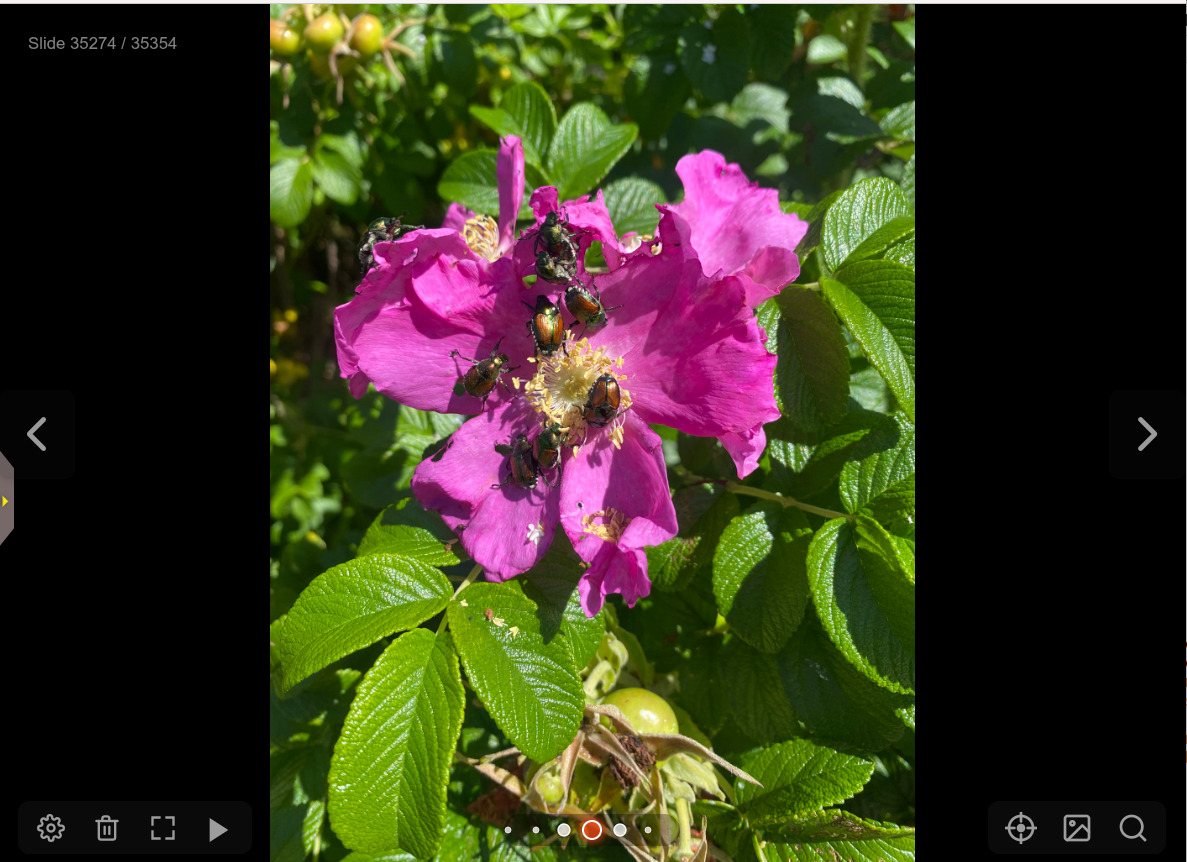
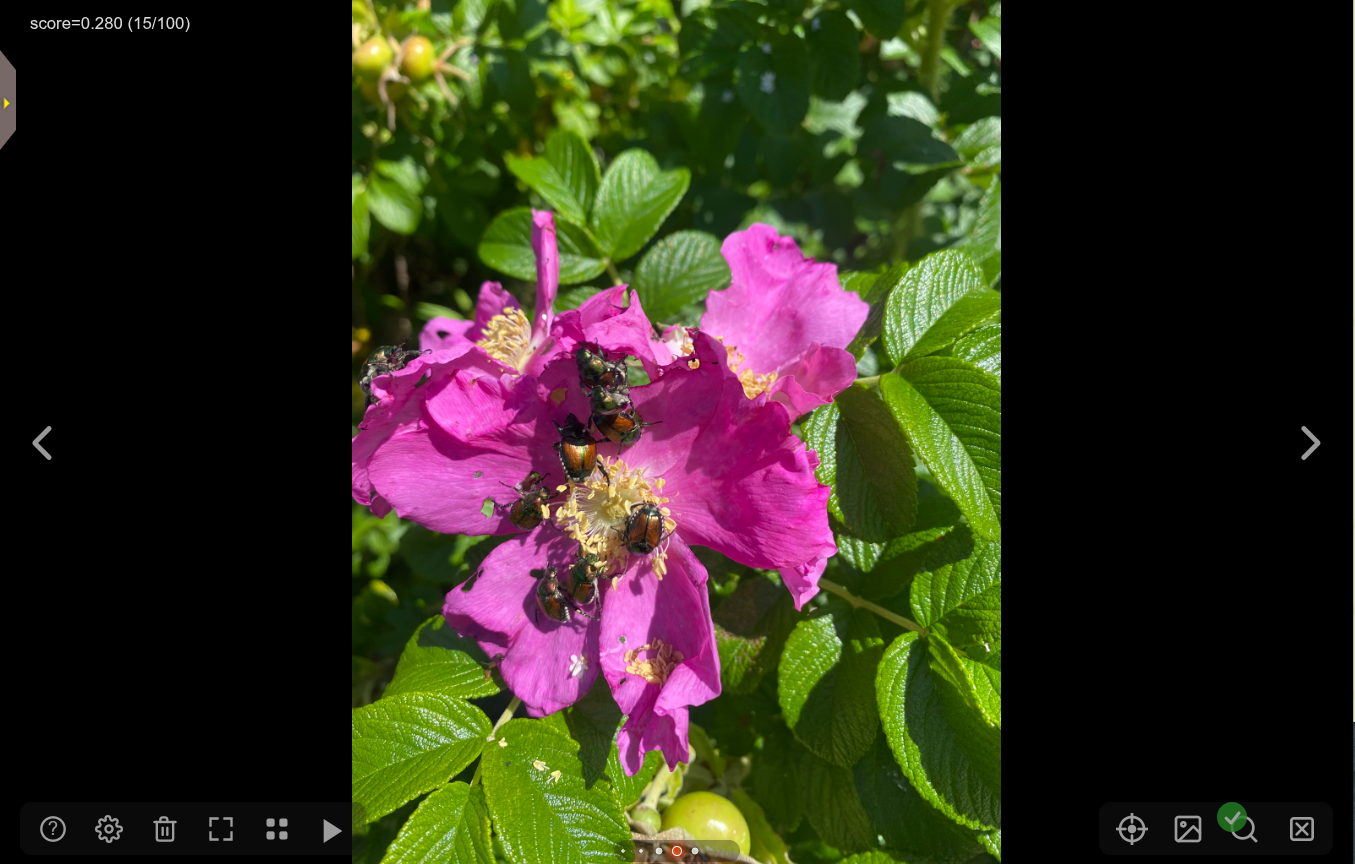
add documentation for grid mode

diff --git a/docs/user-guide/basic-usage.md b/docs/user-guide/basic-usage.md
@@ -28,51 +28,17 @@ Once indexing is complete, the dialogue will close and you can start exploring y
 
 For more information on adding and modifying albums see [Albums](albums.md).
 
-## Browsing your Collection
+## The Semantic Map
 
-The album browsing interface is shown below. Hover over the image to see the key to the various buttons and controls for album browsing:
+When you open an album for the first time, it will show the [Semantic Map](semantic-map.md) view, a scatterplot of all the photos in your album, clustered and colored by similarity.
 
-<div class="photomap-overlay-container">
-  <img src="../../img/photomap_basic_usage_1_base.png" width="480" class="photomap-base" alt="Base image">
-  <img src="../../img/photomap_basic_usage_1_overlay.png" width="480" class="photomap-overlay" alt="Overlay image">
-</div>
-
-Going from left to right:
-
-- The *Next Image* and *Previous Image* buttons advance to the next or previous photographs in the album.
-- The *Gear* button opens up a dialogue that lets you adjust the behavior and appearance of PhotoMapAI.
-- The *Trash* icon permanently deletes the current photo from the album and removes the disk file (after confirmation).
-- The *Fullscreen* button puts PhotoMapAI into fullscreen mode and hides most of the control elements.
-- The *Play/Pause* button starts and stops a slideshow in which the photos autoadvance after a user-adjustable interval.
-- The *Target* icon opens and closes the [semantic map](semantic-map.md).
-- The *Landscape* icon initiates a search for images similar to the one currently displayed.
-- The *Magnifier* icon opens up a search dialogue that lets you search by image similarity and/or a text description of image content.
-
-Finally, the inconspicuous tab with the yellow arrow on the left margin of the window opens a drawer that displays the image's EXIF date, including the date the photo was taken, GPS information (if available), and camera information.
-
-Hover the mouse near the top of the window to reveal a gallery view and a slider control that will let you seek forward and backward among the images. If no search is active, the slider shows the images sorted by their date. If an image or text similarity search is active, the slider changes to indicate the match score (higher numbers are better matches). If a cluster was selected with the semantic map, then the slider and gallery change to indicate the contents of the cluster.
-
-<img src="../../img/photomap_basic_usage_2.png" width="480" alt="Seek Slider" class="img-hover-zoom">
-
-You can navigate through your album, enter and exit fullscreen, and start and stop the slideshow with a variety of keystrokes and gestures on touch-enabled devices. See [Keyboard Shortcuts](keyboard-shortcuts.md) for details.
-
-## Displaying the Semantic Map
-
-Click the ⊙ (target) icon in the search panel on the bottom right to open the [Semantic Map](semantic-map.md):
-
-<div class="photomap-overlay-container">
-  <img src="../../img/photomap_basic_usage_3_base.png" style="width: 320px" class="photomap-base" alt="Base image">
-  <img src="../../img/photomap_basic_usage_3_overlay.png" style="width: 320px" class="photomap-overlay" alt="Overlay image">
-</div>
-
-This will open up a scatterplot showing all the photos in your album, clustered and colored by similarity.
 
 
 <img src="../../img/photomap_semantic_map_1.png" width="480" alt="Semantic Map" class="img-hover-zoom">
 
 The initial view shows the entire collection, with a yellow target (far left side of the screenshot) marking the current photo on display. Use the mouse and scrollwheel to zoom in and out of the map and pan around. If you zoom in enough, you will see individual dots for each photo. The largest clusters are labeled with landmark images shown in the screenshot above as map markers pointing to major clusters. Hover the mouse over areas of interest to see larger thumbnail previews of the corresponding images. You can control whether landmarks and/or hover thumbnails are displayed by selecting those options in the checkboxes at the bottom of the screen. 
 
-Click on a dot to load that photo into the main display, highlight the cluster that you clicked in, and load the contents of the cluster into the search results. You can then use the navigation buttons (or the slideshow) to scroll through the images in the selected cluster.
+Click on a dot to load that photo into the [album browsing display](#the-album-browsing-display). This will also highlight the cluster that you clicked in and load the contents of the cluster into the search results. You can then use the navigation buttons or the [grid view](#viewing-a-thumbnail-grid) to scroll through the images in the selected cluster.
 
 If you don't see anything, or if the colors are very faint, this means that there were insufficient images in the album to cluster well. You can fix this by increasing the cluster strength. Go to the *Cluster Strength* field and increase its value until you are satisfied with the cluster number and size.
 
@@ -81,6 +47,55 @@ If you hover over the top of the map, additional navigation controls appear for 
 <img src="../../img/photomap_semantic_map_2.png" width="480" alt="Semantic Map Nav Controls" class="img-hover-zoom">
 
 You can control the size and position of the semantic map. You can have it appear in fullscreen mode that covers the full size image display beneath it, or you can set it to be a semi-transparent window that floats on top of the full size image. See [Semantic Map](./semantic-map.md) for more details.
+
+You can completely close the semantic map at any time by clicking its close box or the *Target* (⊙) icon at the bottom of the screen (see the screenshot below). To reopen the map, click the *Target* icon again.
+
+<div class="photomap-overlay-container">
+  <img src="../../img/photomap_basic_usage_3_base.png" style="width: 320px" class="photomap-base" alt="Base image">
+  <img src="../../img/photomap_basic_usage_3_overlay.png" style="width: 320px" class="photomap-overlay" alt="Overlay image">
+</div>
+
+
+## The Album Browsing Display
+
+If you click on an image in the semantic map, or just close the window, you will see the album browsing display shown below. Hover over the screenshot to see the key to the various buttons and controls for album browsing:
+
+<div class="photomap-overlay-container">
+  <img src="../../img/photomap_basic_usage_1_base.png" width="480" class="photomap-base" alt="Base image">
+  <img src="../../img/photomap_basic_usage_1_overlay.png" width="480" class="photomap-overlay" alt="Overlay image">
+</div>
+
+Going from left to right:
+
+- The *About* button shows the current version of the software and links to its  home page.
+_ The *Previous slide* and *Next slide* buttons advance the images in the album or current search.
+- The *Gear* button opens up a dialogue that lets you adjust the behavior and appearance of PhotoMapAI.
+- The *Trash* icon permanently deletes the current photo from the album and removes the disk file (after confirmation).
+- The *Fullscreen* button puts PhotoMapAI into fullscreen mode and hides most of the control elements.
+- The *Grid* icon toggles between showing one image at a time to showing a screen of thumbnails.
+- The *Play/Pause* button starts and stops a slideshow in which the photos autoadvance after a user-adjustable interval.
+- The *Target* icon opens and closes the [semantic map](semantic-map.md).
+- The *Landscape* icon initiates a search for images similar to the one currently displayed.
+- The *Magnifier* button opens up a search dialogue that lets you search by image similarity and/or a text description of image content.
+- The "Clear search* button clears any search that is currently active and returns to album browsing mode.
+
+Finally, the inconspicuous tab with the yellow arrow on the left margin of the window opens a drawer that displays the image's EXIF date, including the date the photo was taken, GPS information (if available), and camera information.
+
+### Jumping Forward and Back
+
+Hover the mouse near the top of the window to reveal a slider control that will let you seek forward and backward among the images. If no search is active, the slider shows the images sorted by their date. If an image or text similarity search is active, the slider changes to indicate the match score (higher numbers are better matches). If a cluster was selected with the semantic map, then the slider changes to indicate the slide numbers within the cluster.
+
+<img src="../../img/photomap_basic_usage_2.png" width="480" alt="Seek Slider" class="img-hover-zoom">
+
+You can navigate through your album, enter and exit fullscreen, and start and stop the slideshow with a variety of keystrokes and gestures on touch-enabled devices. See [Keyboard Shortcuts](keyboard-shortcuts.md) for details.
+
+## Viewing a Thumbnail Grid
+
+At any time you can click on the *Grid* icon to shift from single-slide mode to grid mode:
+
+<img src="../../img/photomap_basic_usage_gridmode.png" width="480" alt="Seek Slider" class="img-hover-zoom">
+
+In grid mode, the arrow buttons move forward and back one screen's worth of thumbnails. Click on a thumbnail to select its image. When selected, the image's metadata will be displayed in the metadata drawer, and the semantic map will update to show the position of the current image. You may also advance the grid using the slider control that appears when you hover near the top of the window. 
 
 ## Changing Settings
 
